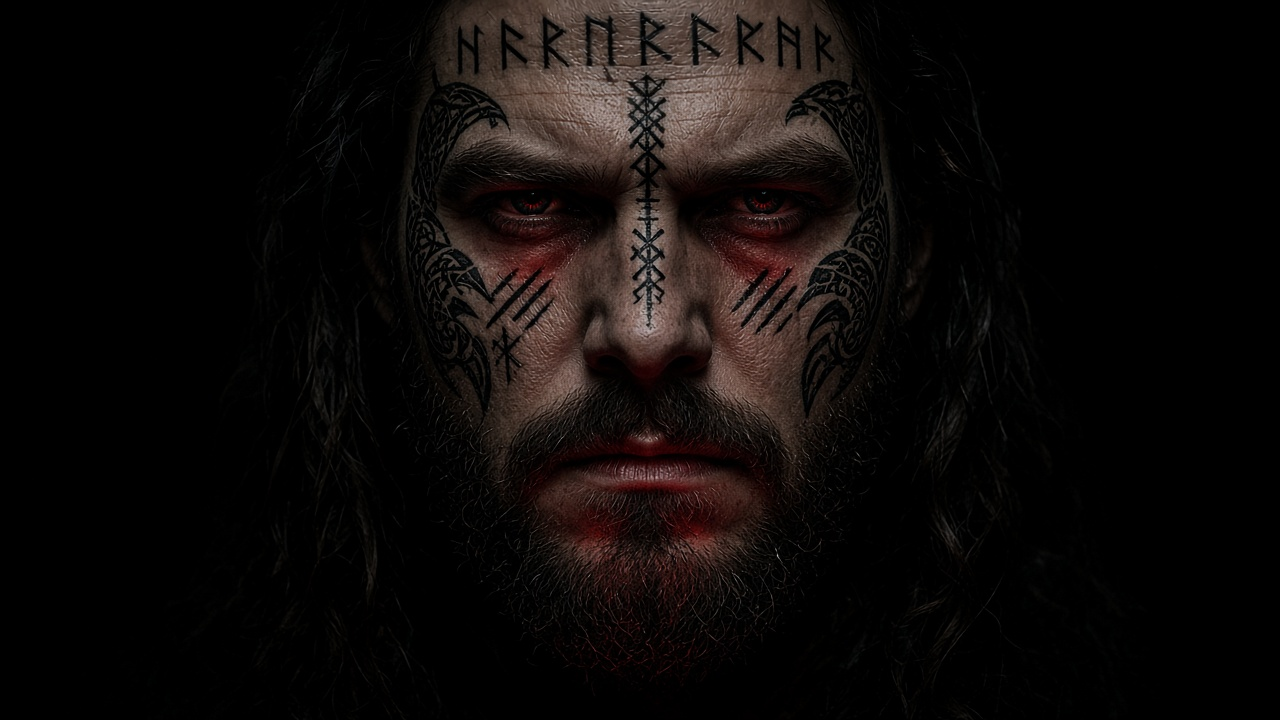
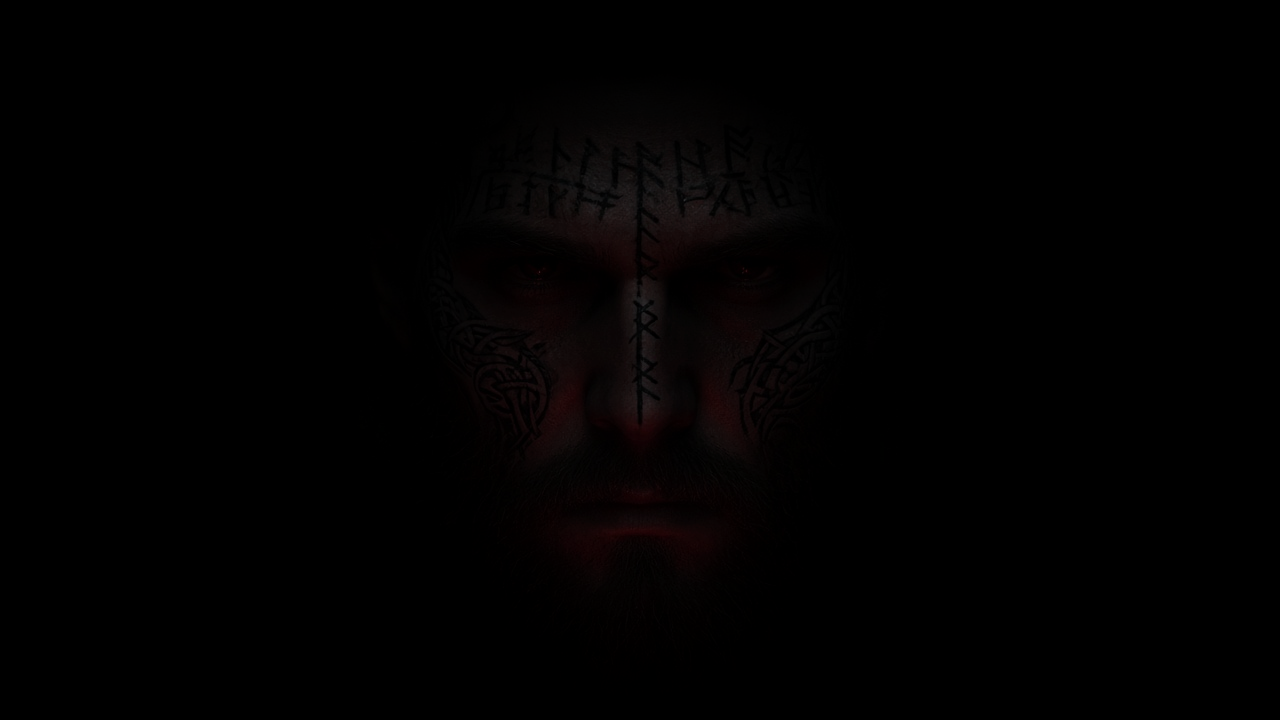
deploy oracle

Changed region(s): [[0.3125, 0.0, 0.7188, 0.8861], [0.7188, 0.7333, 0.75, 0.7639], [0.7188, 0.5806, 0.75, 0.6111]]

diff --git a/assets/index-9Y51o5AQ.css b/assets/index-9Y51o5AQ.css
@@ -1,0 +1,1 @@
+@import "https://fonts.googleapis.com/css2?family=Cinzel:wght@400;600;700&family=Cormorant+Garamond:ital,wght@0,400;0,600;1,400;1,500&display=swap";:root{--obsidian:#07060a;--obsidian-2:#0e0c12;--obsidian-3:#16131c;--crimson:#9b1b2e;--crimson-bright:#c42b42;--crimson-glow:#ff3a5a;--gold:#c9a84c;--gold-dim:#8a7340;--bone:#e8dcc8;--bone-dim:#a89880;--green-soul:#5a8f3a;--green-glow:#8fbf4a;--ember-sick:#6b9a3d;--blood-dried:#6e1524;--smoke:#e8dcc814;--font-display:"Cinzel", Georgia, serif;--font-body:"Cormorant Garamond", Georgia, serif;--safe-bottom:env(safe-area-inset-bottom,0px)}*,:before,:after{box-sizing:border-box;margin:0;padding:0}html,body,#root{background:var(--obsidian);width:100%;height:100%;color:var(--bone);font-family:var(--font-body);-webkit-font-smoothing:antialiased;-webkit-tap-highlight-color:transparent;-webkit-user-select:none;user-select:none;touch-action:manipulation;overflow:hidden}body{background:radial-gradient(ellipse 80% 50% at 50% -10%, #6e152438, transparent), radial-gradient(ellipse 50% 35% at 15% 90%, #5a8f3a14, transparent), radial-gradient(ellipse 60% 40% at 80% 100%, #50101c24, transparent), var(--obsidian)}button{cursor:pointer;color:inherit;background:0 0;border:none;font-family:inherit}.app{flex-direction:column;width:100%;max-width:520px;height:100%;margin:0 auto;display:flex;position:relative;overflow:hidden}.stage{padding:1.5rem 1.25rem calc(1.5rem + var(--safe-bottom));flex-direction:column;flex:1;justify-content:center;align-items:center;width:100%;min-height:0;display:flex;position:relative}.mute-btn{z-index:50;-webkit-backdrop-filter:blur(8px);backdrop-filter:blur(8px);width:40px;height:40px;color:var(--gold);background:#07060ab3;border:1px solid #c9a84c59;border-radius:50%;justify-content:center;align-items:center;font-size:1rem;transition:border-color .2s,background .2s;display:flex;position:absolute;top:1rem;right:1rem}.mute-btn:hover,.mute-btn:focus-visible{border-color:var(--gold);background:#9b1b2e40}.title-oracle{font-family:var(--font-display);letter-spacing:.45em;text-transform:uppercase;color:var(--crimson-bright);text-shadow:0 0 20px #c42b428c,0 0 60px #9b1b2e59;font-weight:700}.caption{text-align:center;color:var(--bone);opacity:.92;max-width:22rem;font-size:1.15rem;font-style:italic;line-height:1.55}.caption-box{-webkit-backdrop-filter:blur(10px);backdrop-filter:blur(10px);background:#07060aa6;border:1px solid #c9a84c40;border-radius:4px;justify-content:center;align-items:center;min-height:4.5rem;margin-top:2rem;padding:1rem 1.25rem;display:flex}.btn-primary{font-family:var(--font-display);letter-spacing:.2em;text-transform:uppercase;border:1px solid var(--crimson);color:var(--bone);background:linear-gradient(#9b1b2e59,#9b1b2e26);border-radius:2px;padding:.95rem 1.75rem;font-size:.75rem;transition:all .25s;box-shadow:0 0 24px #9b1b2e40}.btn-primary:hover,.btn-primary:focus-visible{border-color:var(--crimson-bright);background:linear-gradient(#c42b4280,#9b1b2e40);box-shadow:0 0 36px #c42b4266}.btn-ghost{font-family:var(--font-display);letter-spacing:.18em;text-transform:uppercase;color:var(--gold);background:0 0;border:1px solid #c9a84c59;border-radius:2px;padding:.7rem 1.2rem;font-size:.68rem;transition:all .2s}.btn-ghost:hover{border-color:var(--gold);background:#c9a84c14}.skip-hint{bottom:calc(1.5rem + var(--safe-bottom));font-family:var(--font-display);letter-spacing:.25em;text-transform:uppercase;color:var(--bone-dim);opacity:.7;font-size:.65rem;position:absolute}.intro{cursor:pointer}.intro-orb{background:radial-gradient(circle at 35% 35%, #e05060, var(--crimson) 45%, #3a0a12 80%);border-radius:50%;width:120px;height:120px;margin-bottom:2.5rem;animation:3s ease-in-out infinite pulse-orb;box-shadow:0 0 40px #c42b4299,0 0 80px #9b1b2e66,inset 0 0 30px #ff64784d}@keyframes pulse-orb{0%,to{transform:scale(1);box-shadow:0 0 40px #c42b4299,0 0 80px #9b1b2e66}50%{transform:scale(1.06);box-shadow:0 0 55px #c42b42bf,0 0 100px #9b1b2e80}}.tap-enter{font-family:var(--font-display);letter-spacing:.35em;text-transform:uppercase;color:var(--bone);margin-top:1.5rem;font-size:.85rem;animation:2.2s ease-in-out infinite fade-pulse}@keyframes fade-pulse{0%,to{opacity:.45}50%{opacity:1}}.incantation-text{text-align:center;color:var(--bone);max-width:20rem;margin:1.5rem 0 2.5rem;font-size:1.2rem;font-style:italic;line-height:1.85}.incantation-text p{margin-bottom:.35rem}.hold-btn{touch-action:none;background:#0e0c12cc;border:1px solid #c9a84c66;border-radius:50%;flex-direction:column;justify-content:center;align-items:center;gap:.4rem;width:160px;height:160px;display:flex;position:relative;overflow:hidden}.hold-btn span.label{font-family:var(--font-display);letter-spacing:.18em;text-transform:uppercase;color:var(--gold);z-index:2;text-align:center;padding:0 .5rem;font-size:.62rem}.hold-ring{background:conic-gradient(var(--crimson-bright) var(--hold-progress,0%), transparent var(--hold-progress,0%));z-index:1;border:2px solid #0000;border-radius:50%;transition:none;position:absolute;inset:6px;-webkit-mask:radial-gradient(farthest-side,#0000 calc(100% - 3px),#000 calc(100% - 2px));mask:radial-gradient(farthest-side,#0000 calc(100% - 3px),#000 calc(100% - 2px))}.hold-btn.holding{border-color:var(--crimson-bright);box-shadow:0 0 30px #c42b4259}.eyes-stage{padding:0;position:relative;overflow:hidden;background:#000!important}.seer-red-wash{pointer-events:none;z-index:1;background:radial-gradient(55% 45% at 50% 48%,#780c1261,#0000 70%),radial-gradient(90% 70% at 50% 100%,#2800048c,#0000 60%);animation:4.5s ease-in-out infinite seer-pulse;position:absolute;inset:-10%}.seer-red-core{z-index:3;pointer-events:none;opacity:.85;background:radial-gradient(circle,#ff4a5c 0%,#c41228 45%,#0000 72%);border-radius:50%;width:10px;height:10px;position:absolute;top:52%;left:50%;transform:translate(-50%,-50%);box-shadow:0 0 18px 6px #ff283c73,0 0 60px 20px #8c0a1459}.seer-figure{opacity:0;z-index:2;pointer-events:none;width:min(140vw,720px);height:auto;max-height:110vh;transition:opacity 2.8s;animation:17s ease-in-out forwards seer-lean-in;position:absolute;top:48%;left:50%;transform:translate(-50%,-50%)scale(1.18)}.seer-figure.visible{opacity:1}.seer-face{object-fit:contain;filter:brightness(.55)contrast(1.2)saturate(.85);mix-blend-mode:screen;opacity:.22;width:100%;height:auto;max-height:110vh;display:block}@keyframes seer-lean-in{0%{transform:translate(-50%,-50%)scale(1.18)translateY(6px)}18%{transform:translate(-50%,-50%)scale(1.2)translateY(2px)}42%{transform:translate(-50%,-50%)scale(1.28)translateY(-8px)}58%{transform:translate(-50%,-50%)scale(1.26)translate(1px,-6px)}78%{transform:translate(-50%,-50%)scale(1.34)translateY(-14px)}to{transform:translate(-50%,-50%)scale(1.36)translateY(-16px)}}.fire-stage{overflow:hidden;background:#050305!important}.fire-canvas{width:100%;height:100%;position:absolute;inset:0}.fire-label{z-index:2;font-family:var(--font-display);letter-spacing:.4em;color:var(--gold);text-shadow:0 0 20px #ff642899;font-size:.8rem;position:relative}.select-stage{justify-content:flex-start;padding-top:3.5rem}.select-header{text-align:center;width:100%;margin-bottom:.5rem}.select-header h2{font-family:var(--font-display);letter-spacing:.3em;color:var(--gold);margin-bottom:.4rem;font-size:.85rem}.counter{font-family:var(--font-display);letter-spacing:.15em;color:var(--crimson-bright);font-size:1.4rem}.hint-swipe{font-family:var(--font-display);letter-spacing:.2em;color:var(--bone-dim);text-align:center;text-transform:uppercase;margin:.25rem 0 .75rem;font-size:.62rem}.snap-shell{align-items:center;gap:.25rem;width:100%;max-width:480px;margin:0 auto;display:flex}.carousel-nav{border:1px solid var(--gold-dim);width:48px;height:48px;color:var(--gold);cursor:pointer;z-index:8;touch-action:manipulation;background:#0c080ae6;border-radius:50%;flex-shrink:0;justify-content:center;align-items:center;padding:0 0 2px;font-size:1.85rem;line-height:1;display:flex}.carousel-nav:disabled{opacity:.35;cursor:not-allowed}.snap-scroller{scroll-snap-type:x mandatory;scroll-behavior:smooth;-webkit-overflow-scrolling:touch;touch-action:pan-x;overscroll-behavior-x:contain;scrollbar-width:none;flex:1;align-items:center;gap:.85rem;min-height:310px;padding:1rem 0 1.25rem;display:flex;overflow:auto hidden}.snap-scroller::-webkit-scrollbar{display:none}.snap-scroller.is-locked{touch-action:none;overflow:hidden}.snap-spacer{pointer-events:none;flex:0 0 max(18vw,72px);height:1px}.snap-item{scroll-snap-align:center;scroll-snap-stop:always;cursor:pointer;touch-action:manipulation;opacity:.55;-webkit-tap-highlight-color:transparent;background:0 0;border:none;flex:none;margin:0;padding:0;transition:transform .25s,opacity .25s;transform:scale(.86)}.snap-item.is-center,.snap-item.is-revealing{opacity:1;z-index:2;transform:scale(1)}.snap-item:focus-visible{outline:1px solid var(--gold);outline-offset:6px}.select-confirm{align-self:center;width:min(280px,90%);margin-top:.85rem}.selected-row{justify-content:center;gap:.4rem;min-height:48px;margin-top:1rem;display:flex}.selected-thumb{border:1px solid var(--gold-dim);background:var(--obsidian-3);opacity:.85;border-radius:3px;justify-content:center;align-items:center;width:32px;height:48px;display:flex;overflow:hidden}.selected-thumb-inner{transform-origin:50%;transform:scale(.19)}.card{width:168px;height:280px;transform-style:preserve-3d;border-radius:10px;transition:transform .7s cubic-bezier(.4,.2,.2,1);position:relative;box-shadow:0 12px 40px #0000008c,0 0 0 1px #c9a84c40}.card.flipped{transform:rotateY(180deg)}.card.reversed-face .card-face-inner{transform:rotate(180deg)}.card-face,.card-back{backface-visibility:hidden;border-radius:10px;position:absolute;inset:0;overflow:hidden}.card-face{background:#0a080c;flex-direction:column;padding:8px;display:flex;transform:rotateY(180deg)}.card-back{background:radial-gradient(at 50% 30%,#9b1b2e40,#0000 60%),linear-gradient(160deg,#1c1218,#0a080c);justify-content:center;align-items:center;display:flex}.card-border{pointer-events:none;border:1px solid #c9a84c73;border-radius:6px;position:absolute;inset:6px}.card-border:before{content:"";border:1px solid #9b1b2e59;border-radius:4px;position:absolute;inset:4px}.card-ornament{border:1px solid var(--gold-dim);width:14px;height:14px;position:absolute;transform:rotate(45deg)}.card-ornament.tl{top:14px;left:14px}.card-ornament.tr{top:14px;right:14px}.card-ornament.bl{bottom:14px;left:14px}.card-ornament.br{bottom:14px;right:14px}.back-sigil{width:72px;height:72px;color:var(--crimson-bright);z-index:1;border:1px solid #c9a84c80;border-radius:50%;justify-content:center;align-items:center;font-size:1.8rem;display:flex;position:relative;box-shadow:0 0 20px #9b1b2e59,inset 0 0 20px #c9a84c14}.back-sigil:before{content:"";border:1px dashed #c9a84c40;border-radius:50%;position:absolute;inset:-12px}.card-face-inner{z-index:1;background:#050408;border-radius:4px;flex-direction:column;flex:1;justify-content:stretch;align-items:stretch;padding:0;transition:transform .3s;display:flex;position:relative;overflow:hidden}.card-art{object-fit:cover;object-position:center top;z-index:0;width:100%;height:100%;display:block;position:absolute;inset:0}.card-art-vignette{z-index:1;pointer-events:none;background:radial-gradient(at 50% 45%,#0000 38%,#0000009e 100%),linear-gradient(#00000059 0%,#0000 22% 70%,#0000008c 100%);position:absolute;inset:0;box-shadow:inset 0 0 0 1px #6e152473}.deck-subtitle{font-family:var(--font-body);letter-spacing:.12em;color:var(--crimson-bright);opacity:.85;text-align:center;margin:-.35rem 0 .85rem;font-size:1.05rem;font-style:italic}.kw-line{font-family:var(--font-body);color:var(--crimson-bright);opacity:.85;margin-bottom:.5rem;font-size:1.05rem;font-style:italic}.oracle-chrome{z-index:3;pointer-events:none;background:linear-gradient(#050408d1 0%,#05040859 70%,#0000 100%);flex-direction:column;align-items:center;padding:.45rem .4rem .35rem;display:flex;position:absolute;top:0;left:0;right:0}.oracle-chrome-top{justify-content:space-between;align-items:center;width:100%;margin-bottom:.15rem;padding:0 .15rem;display:flex}.card-number{font-family:var(--font-display);letter-spacing:.18em;color:var(--bone);opacity:.9;font-size:.62rem}.card-sigil{color:var(--green-glow);text-shadow:0 0 10px #6f9a3d73;font-size:.85rem}.oracle-chrome-title{font-family:var(--font-display);letter-spacing:.06em;text-transform:uppercase;text-align:center;color:var(--bone);text-shadow:0 1px 4px #000000f2;font-size:.52rem;line-height:1.25}.oracle-chrome-keywords{font-family:var(--font-body);color:var(--crimson-bright);letter-spacing:.04em;text-align:center;text-shadow:0 1px 3px #000000e6;margin-top:.1rem;font-size:.58rem;font-style:italic}.card.oracle-face .card-art-meta,.oracle-face .card-art-meta{display:none}.card.reading-size .oracle-chrome-title{font-size:.42rem}.card.reading-size .oracle-chrome-keywords{font-size:.48rem}.card-art-meta{z-index:2;background:linear-gradient(#0000,#050408e0 45%);flex-direction:column;align-items:center;gap:.15rem;padding:.55rem .35rem .65rem;display:flex;position:absolute;bottom:0;left:0;right:0}.card-art-meta .card-roman{opacity:.85;font-size:.55rem}.card-art-meta .card-name{text-shadow:0 1px 4px #000000e6;font-size:.58rem}.card-art-meta .orient-badge{margin-top:.15rem}.card-roman{font-family:var(--font-display);letter-spacing:.2em;color:var(--gold);font-size:.7rem}.card-glyph{color:var(--crimson-bright);text-shadow:0 0 24px #c42b4280;margin:.5rem 0;font-size:2.4rem}.card-name{font-family:var(--font-display);letter-spacing:.08em;text-align:center;color:var(--bone);text-transform:uppercase;font-size:.68rem;line-height:1.3}.card-suit-line{background:linear-gradient(90deg, transparent, var(--gold-dim), transparent);width:40px;height:1px;margin:.4rem 0}.card-keywords{color:var(--bone-dim);text-align:center;font-size:.65rem;font-style:italic;line-height:1.3}.orient-badge{font-family:var(--font-display);letter-spacing:.15em;color:var(--crimson-bright);margin-top:.35rem;font-size:.5rem}.card.mini{border-radius:6px;width:72px;height:120px}.card.mini .card-glyph{margin:.2rem 0;font-size:1.2rem}.card.mini .card-name{font-size:.42rem}.card.mini .card-roman{font-size:.5rem}.card.mini .card-keywords,.card.mini .orient-badge,.card.mini .card-suit-line{display:none}.card.mini .card-face-inner{padding:6px 4px}.card.reading-size{width:100px;height:166px}.card.reading-size .card-glyph{font-size:1.6rem}.card.reading-size .card-name{font-size:.52rem}.card.reading-size .card-keywords{display:none}.reading-stage{padding-top:3.25rem;padding-bottom:calc(2rem + var(--safe-bottom));-webkit-overflow-scrolling:touch;justify-content:flex-start;overflow:hidden auto}.reading-stage::-webkit-scrollbar{width:3px}.reading-stage::-webkit-scrollbar-thumb{background:var(--crimson)}.spread-grid{flex-wrap:wrap;justify-content:center;gap:.75rem;width:100%;margin-bottom:1.5rem;display:flex}.spread-item{flex-direction:column;align-items:center;gap:.4rem;width:108px;display:flex}.pos-label{font-family:var(--font-display);letter-spacing:.12em;text-transform:uppercase;color:var(--gold);text-align:center;font-size:.52rem;line-height:1.3}.reading-detail{background:#0e0c12bf;border:1px solid #c9a84c33;border-radius:4px;width:100%;max-width:28rem;margin-bottom:1.25rem;padding:1.1rem 1.15rem}.reading-detail h3{font-family:var(--font-display);letter-spacing:.15em;color:var(--crimson-bright);margin-bottom:.25rem;font-size:.78rem}.reading-detail .pos{color:var(--gold-dim);margin-bottom:.6rem;font-size:.75rem;font-style:italic}.reading-detail p{color:var(--bone);font-size:1.05rem;line-height:1.55}.synthesis{border-left:2px solid var(--crimson);background:#9b1b2e14;width:100%;max-width:28rem;margin-bottom:1.5rem;padding:1.25rem}.synthesis h3{font-family:var(--font-display);letter-spacing:.2em;color:var(--gold);margin-bottom:.6rem;font-size:.7rem}.synthesis p{color:var(--bone);font-size:1.1rem;font-style:italic;line-height:1.6}.reading-actions{flex-wrap:wrap;justify-content:center;gap:.75rem;width:100%;display:flex}.upsell-sheet{background:radial-gradient(at 50% 0,#9b1b2e33,#0000 55%),#0e0c12f2;border:1px solid #c9a84c59;border-radius:6px;width:100%;max-width:24rem;padding:1.75rem 1.5rem;box-shadow:0 20px 60px #00000080}.upsell-sheet h2{font-family:var(--font-display);letter-spacing:.25em;color:var(--gold);text-align:center;margin-bottom:.35rem;font-size:1.1rem}.upsell-price{text-align:center;font-family:var(--font-display);color:var(--crimson-bright);margin-bottom:1.25rem;font-size:1.8rem}.upsell-price span{letter-spacing:.15em;color:var(--bone-dim);margin-top:.2rem;font-size:.7rem;display:block}.feature-list{margin-bottom:1.5rem;list-style:none}.feature-list li{color:var(--bone);border-bottom:1px solid #e8dcc814;align-items:flex-start;gap:.65rem;padding:.55rem 0;font-size:1.05rem;display:flex}.feature-list li:before{content:"✦";color:var(--crimson-bright);flex-shrink:0;margin-top:.15rem}.upsell-actions{flex-direction:column;gap:.65rem;display:flex}.badge-plus{font-family:var(--font-display);letter-spacing:.15em;border:1px solid var(--gold);color:var(--gold);vertical-align:middle;margin-left:.4rem;padding:.2rem .5rem;font-size:.55rem;display:inline-block}.locked-note{color:var(--bone-dim);text-align:center;margin-top:.75rem;font-size:.9rem;font-style:italic}.fade-in{animation:.8s forwards fadeIn}@keyframes fadeIn{0%{opacity:0;transform:translateY(8px)}to{opacity:1;transform:translateY(0)}}.sr-only{clip:rect(0, 0, 0, 0);border:0;width:1px;height:1px;margin:-1px;padding:0;position:absolute;overflow:hidden}.cinematic-stage{cursor:pointer;padding:0;overflow:hidden;background:#000!important}.cinematic-logo{z-index:2;opacity:0;filter:drop-shadow(0 0 24px #c42b4259)drop-shadow(0 0 48px #c9a84c33);pointer-events:none;width:min(78vw,340px);height:auto;transition:opacity 1.4s,transform 4s ease-out,filter 1.4s;position:relative;transform:scale(.92)}.cinematic-in .cinematic-logo,.cinematic-hold .cinematic-logo{opacity:1;transform:scale(1.06)}.cinematic-out .cinematic-logo{opacity:0;transition-duration:.35s;transform:scale(1.1)}.cinematic-vignette{z-index:1;pointer-events:none;background:radial-gradient(#0000 35%,#000000d9 100%),radial-gradient(at 50% 60%,#9b1b2e2e,#0000 55%);position:absolute;inset:0}.cinematic-embers{z-index:1;pointer-events:none;position:absolute;inset:0;overflow:hidden}.ember{bottom:-8px;left:calc(8% + (var(--i) * 5.1%));width:3px;height:3px;animation:4.5s linear infinite ember-rise;animation-delay:calc(var(--i) * -.28s);opacity:.55;background:#ff8c50b3;border-radius:50%;position:absolute;box-shadow:0 0 8px #ff642899}@keyframes ember-rise{0%{opacity:0;transform:translateY(0)scale(1)}15%{opacity:.7}to{opacity:0;transform:translateY(-110vh)scale(.4)}}.hub-stage .hub-orb{margin-bottom:1.5rem}.hub-actions{flex-direction:column;gap:.75rem;width:100%;max-width:16rem;display:flex}.hub-actions .btn-primary,.hub-actions .btn-ghost{width:100%}.continue-spoken{max-width:18rem}.daily-card-wrap{margin:.5rem 0 .25rem}.checkout-notice{text-align:center;color:var(--green-soul);background:#2ecc7114;border:1px solid #2ecc7159;border-radius:4px;margin-bottom:1rem;padding:.65rem .75rem;font-size:1rem}.deck-picker{text-align:left;margin:.5rem 0 .25rem}.deck-picker h3{font-family:var(--font-display);letter-spacing:.2em;color:var(--gold);text-transform:uppercase;margin-bottom:.55rem;font-size:.65rem}.deck-grid{flex-wrap:wrap;gap:.45rem;display:flex}.deck-chip{font-family:var(--font-display);letter-spacing:.1em;text-transform:uppercase;color:var(--bone-dim);background:#07060a80;border:1px solid #c9a84c4d;border-radius:2px;padding:.45rem .65rem;font-size:.58rem}.deck-chip.active{border-color:var(--crimson-bright);color:var(--bone);box-shadow:0 0 16px #c42b424d}.deck-chip.locked{opacity:.45;cursor:not-allowed}.premium-toggle{color:var(--bone);cursor:pointer;align-items:center;gap:.55rem;margin:.35rem 0;font-size:.95rem;display:flex}.premium-toggle input{accent-color:var(--crimson-bright)}.card.deck-shadow .card-face{background:linear-gradient(165deg,#1a0c10 0%,#0a0608 55%,#140a0e 100%)}.card.deck-shadow .card-glyph{color:#8a2030;text-shadow:0 0 20px #7814288c}.card.deck-shadow .card-back{background:radial-gradient(at 50% 30%,#64142359,#0000 60%),linear-gradient(160deg,#140a0e,#060405)}.card.deck-gilded{box-shadow:0 12px 40px #0000008c,0 0 0 1px #c9a84c8c,0 0 24px #c9a84c33}.card.deck-gilded .card-border{border-color:#e8c864bf;box-shadow:inset 0 0 12px #c9a84c26}.card.deck-gilded .card-border:before{border-color:#c9a84c73}.card.deck-gilded .card-ornament{border-color:var(--gold);box-shadow:0 0 6px #c9a84c66}.card.deck-gilded .card-face{background:linear-gradient(165deg,#1c1810 0%,#0a0908 50%,#16120c 100%)}.card.deck-abyss .card-face{background:linear-gradient(165deg,#12151c 0%,#07080c 50%,#0e1218 100%)}.card.deck-abyss .card-glyph{color:#9ec8e0;text-shadow:0 0 22px #8cc8e673}.card.deck-abyss .card-roman,.card.deck-abyss .back-sigil{color:#c5d8e8}.card.deck-abyss .card-back{background:radial-gradient(at 50% 30%,#5078a038,#0000 60%),linear-gradient(160deg,#10141a,#06070a)}.card.deck-abyss{box-shadow:0 12px 40px #0000008c,0 0 0 1px #a0bed259}.card.premium-art .card-face,.card.premium-art .card-back{position:relative}.card-shimmer{border-radius:inherit;pointer-events:none;z-index:3;mix-blend-mode:screen;opacity:.85;background:linear-gradient(115deg,#0000 30%,#ffffff12 45%,#c9a84c1f 50%,#ffffff0f 55%,#0000 70%) 0 0/220% 100%;animation:3.8s ease-in-out infinite shimmer-slide;position:absolute;inset:0}@keyframes shimmer-slide{0%{background-position:120% 0}to{background-position:-120% 0}}.card.premium-art .card-face{background-image:radial-gradient(at 30% 20%,#c42b422e,#0000 50%),radial-gradient(at 70% 80%,#c9a84c1a,#0000 45%),linear-gradient(165deg,#1a1520 0%,#0c0a10 50%,#151018 100%)}.card.deck-shadow .card-art{filter:saturate(.45)contrast(1.12)brightness(.88)sepia(.15)}.card.deck-shadow .card-art-vignette{background:radial-gradient(#0000 40%,#280008b3 100%),linear-gradient(#3c000a33 0%,#0000 30%,#000000bf 100%)}.card.deck-gilded .card-art{filter:saturate(1.05)contrast(1.06)sepia(.12)brightness(1.02)}.card.deck-gilded .card-art-vignette{box-shadow:inset 0 0 0 1px #c9a84c8c}.card.deck-abyss .card-art{filter:saturate(.35)contrast(1.15)brightness(.92)hue-rotate(190deg)}.card.deck-abyss .card-art-vignette{background:radial-gradient(#0000 40%,#000a1ebf 100%),linear-gradient(#14283c33 0%,#0000 30%,#000c 100%)}.teller-credit{font-family:var(--font-body);letter-spacing:.08em;color:var(--gold-dim);opacity:.8;text-align:center;margin:0 0 .85rem;font-size:.82rem;font-style:italic}.fortune-message{color:var(--bone);opacity:.95;margin:.5rem 0 0;font-size:1.05rem;font-style:italic;line-height:1.65}

diff --git a/index.html b/index.html
@@ -7,8 +7,8 @@
     <meta name="theme-color" content="#07060a" />
     <meta name="description" content="Oracle — Veil of the Ash Realms dark oracle" />
     <title>Oracle</title>
-    <script type="module" crossorigin src="/oracle/assets/index-BxjJIaAR.js"></script>
-    <link rel="stylesheet" crossorigin href="/oracle/assets/index-DtRe-aAW.css">
+    <script type="module" crossorigin src="/oracle/assets/index-CZaBb50I.js"></script>
+    <link rel="stylesheet" crossorigin href="/oracle/assets/index-9Y51o5AQ.css">
   </head>
   <body>
     <div id="root"></div>
